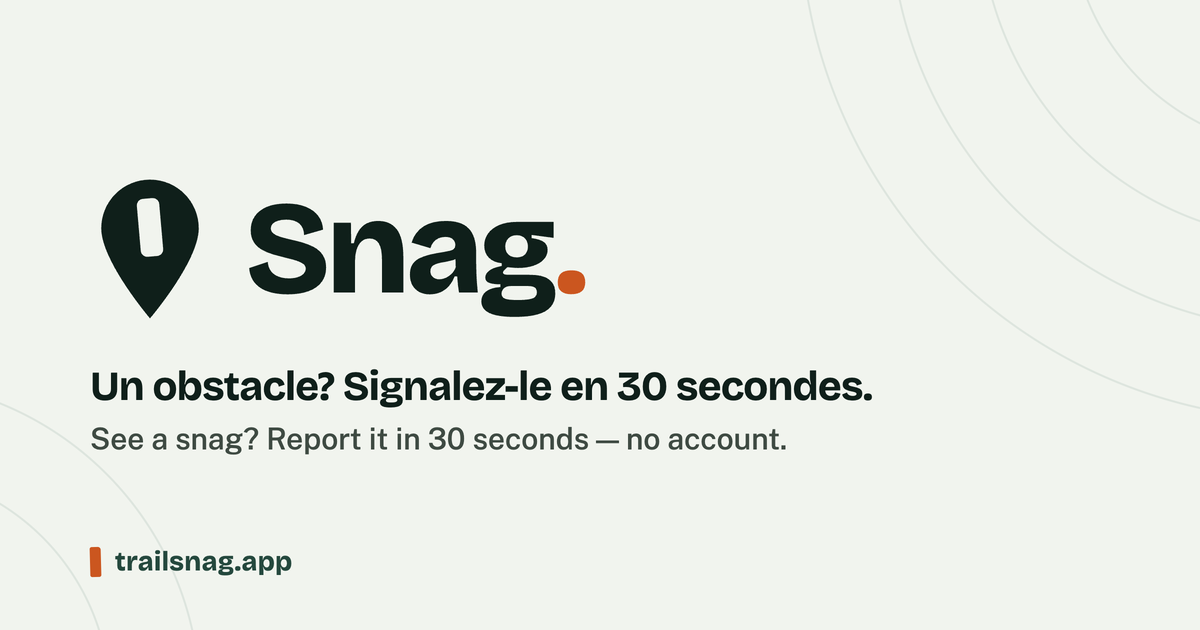
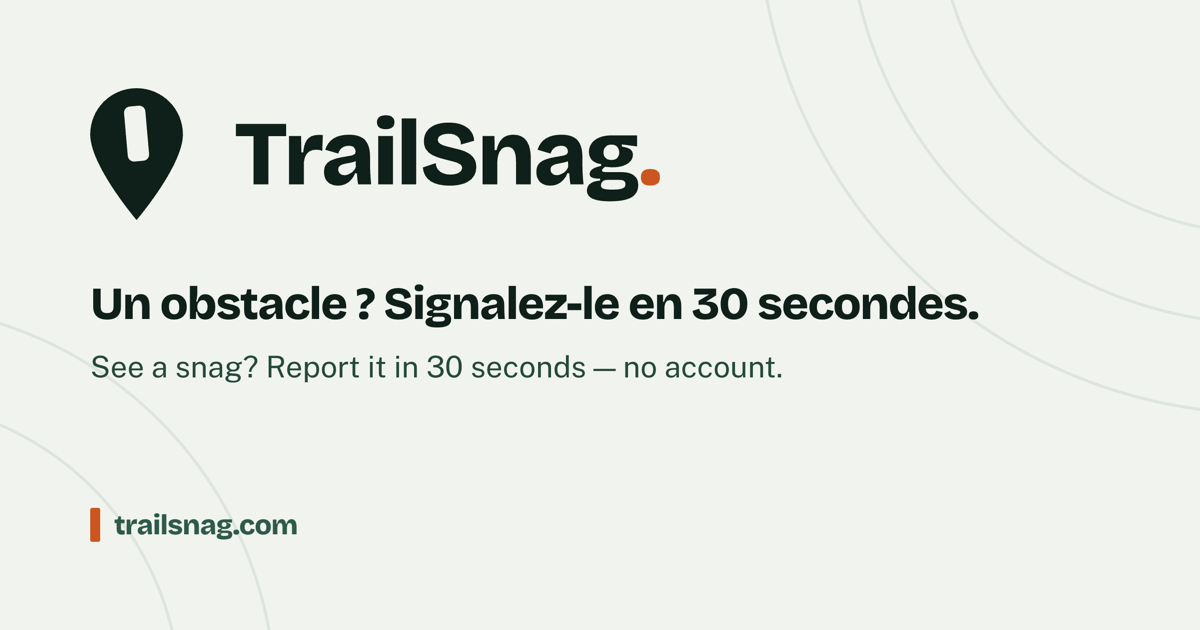
The social card stops advertising a name we dropped and a domain we left Every share of trailsnag.com renders og.png, and og.png still read « Snag. » over trailsnag.app — the pre-rename brand and the wrong address, on the one image LinkedIn, Slack and Facebook actually put in front of people. It is 

Changed region(s): [[0.0617, 0.1206, 0.8325, 0.5429], [0.0617, 0.573, 0.74, 0.7238], [0.0617, 0.8143, 0.2467, 0.9349]]

diff --git a/scripts/og-card.html b/scripts/og-card.html
@@ -1,0 +1,146 @@
+<!doctype html>
+<!--
+  Source for public/og.png — the card every share of trailsnag.com renders.
+
+  It is a page rather than generated SVG because a social card is a raster in the
+  end, and a browser is the only thing that lays out these two fonts at these two
+  weights the way the site does. The lockup is not redrawn here: it is <img>-ed
+  straight from the brand kit, so the card cannot drift from the official logo.
+
+  To regenerate after editing:
+    1. pnpm brand                       (refreshes the lockup this file embeds)
+    2. open scripts/og-card.html in a browser at exactly 1200×630, DPR 1
+    3. screenshot the viewport to public/og.png
+-->
+<html lang="fr-CA">
+  <head>
+    <meta charset="utf-8" />
+    <title>TrailSnag — carte de partage</title>
+    <style>
+      @font-face {
+        font-family: 'Bricolage Grotesque Variable';
+        src: url('../node_modules/@fontsource-variable/bricolage-grotesque/files/bricolage-grotesque-latin-wght-normal.woff2')
+          format('woff2-variations');
+        font-weight: 200 800;
+        font-style: normal;
+      }
+      @font-face {
+        font-family: 'Public Sans Variable';
+        src: url('../node_modules/@fontsource-variable/public-sans/files/public-sans-latin-wght-normal.woff2')
+          format('woff2-variations');
+        font-weight: 100 900;
+        font-style: normal;
+      }
+
+      /* Tokens mirrored from src/styles/global.css. */
+      :root {
+        --paper: #f1f4ee;
+        --ink: #0f1f1a;
+        --sub: #24483d;
+        --pine: #2e5a4c;
+        --blaze: #cb561f;
+      }
+
+      * {
+        margin: 0;
+        padding: 0;
+        box-sizing: border-box;
+      }
+
+      html,
+      body {
+        width: 1200px;
+        height: 630px;
+        overflow: hidden;
+      }
+
+      body {
+        position: relative;
+        background: var(--paper);
+        font-family: 'Public Sans Variable', system-ui, sans-serif;
+        color: var(--ink);
+        -webkit-font-smoothing: antialiased;
+      }
+
+      /* The same faint topo contours the app icon carries, off two centres so
+         the arcs read as terrain rather than as a pattern. */
+      .contours {
+        position: absolute;
+        inset: 0;
+      }
+
+      .plate {
+        position: absolute;
+        inset: 0;
+        padding: 88px 90px;
+        display: flex;
+        flex-direction: column;
+      }
+
+      /* align-self matters: a stretched flex item would widen the <img> box and
+         the SVG would centre itself inside it, drifting off the text margin. */
+      .lockup {
+        align-self: flex-start;
+        height: 132px;
+        width: auto;
+        display: block;
+      }
+
+      .headline {
+        margin-top: 58px;
+        font-family: 'Bricolage Grotesque Variable', system-ui, sans-serif;
+        font-weight: 800;
+        font-size: 46px;
+        line-height: 1.12;
+        letter-spacing: -0.025em;
+        color: var(--ink);
+      }
+
+      .subhead {
+        margin-top: 18px;
+        font-size: 30px;
+        font-weight: 400;
+        line-height: 1.3;
+        color: var(--sub);
+      }
+
+      .domain {
+        margin-top: auto;
+        display: flex;
+        align-items: center;
+        gap: 14px;
+        font-family: 'Bricolage Grotesque Variable', system-ui, sans-serif;
+        font-weight: 800;
+        font-size: 28px;
+        letter-spacing: -0.02em;
+        color: var(--pine);
+      }
+
+      /* The blaze as an object — a painted stroke, never a tint behind text. */
+      .blaze-stripe {
+        width: 10px;
+        height: 34px;
+        border-radius: 2px;
+        background: var(--blaze);
+      }
+    </style>
+  </head>
+  <body>
+    <svg class="contours" viewBox="0 0 1200 630" fill="none" aria-hidden="true">
+      <g stroke="#2e5a4c" stroke-opacity="0.1" stroke-width="3">
+        <circle cx="1268" cy="-96" r="330" />
+        <circle cx="1268" cy="-96" r="420" />
+        <circle cx="1268" cy="-96" r="510" />
+        <circle cx="-120" cy="700" r="300" />
+        <circle cx="-120" cy="700" r="395" />
+      </g>
+    </svg>
+
+    <div class="plate">
+      <img class="lockup" src="../public/brand/svg/trailsnag-lockup-ink.svg" alt="TrailSnag" />
+      <p class="headline">Un obstacle&nbsp;? Signalez-le en 30&nbsp;secondes.</p>
+      <p class="subhead">See a snag? Report it in 30 seconds — no account.</p>
+      <div class="domain"><span class="blaze-stripe"></span>trailsnag.com</div>
+    </div>
+  </body>
+</html>
